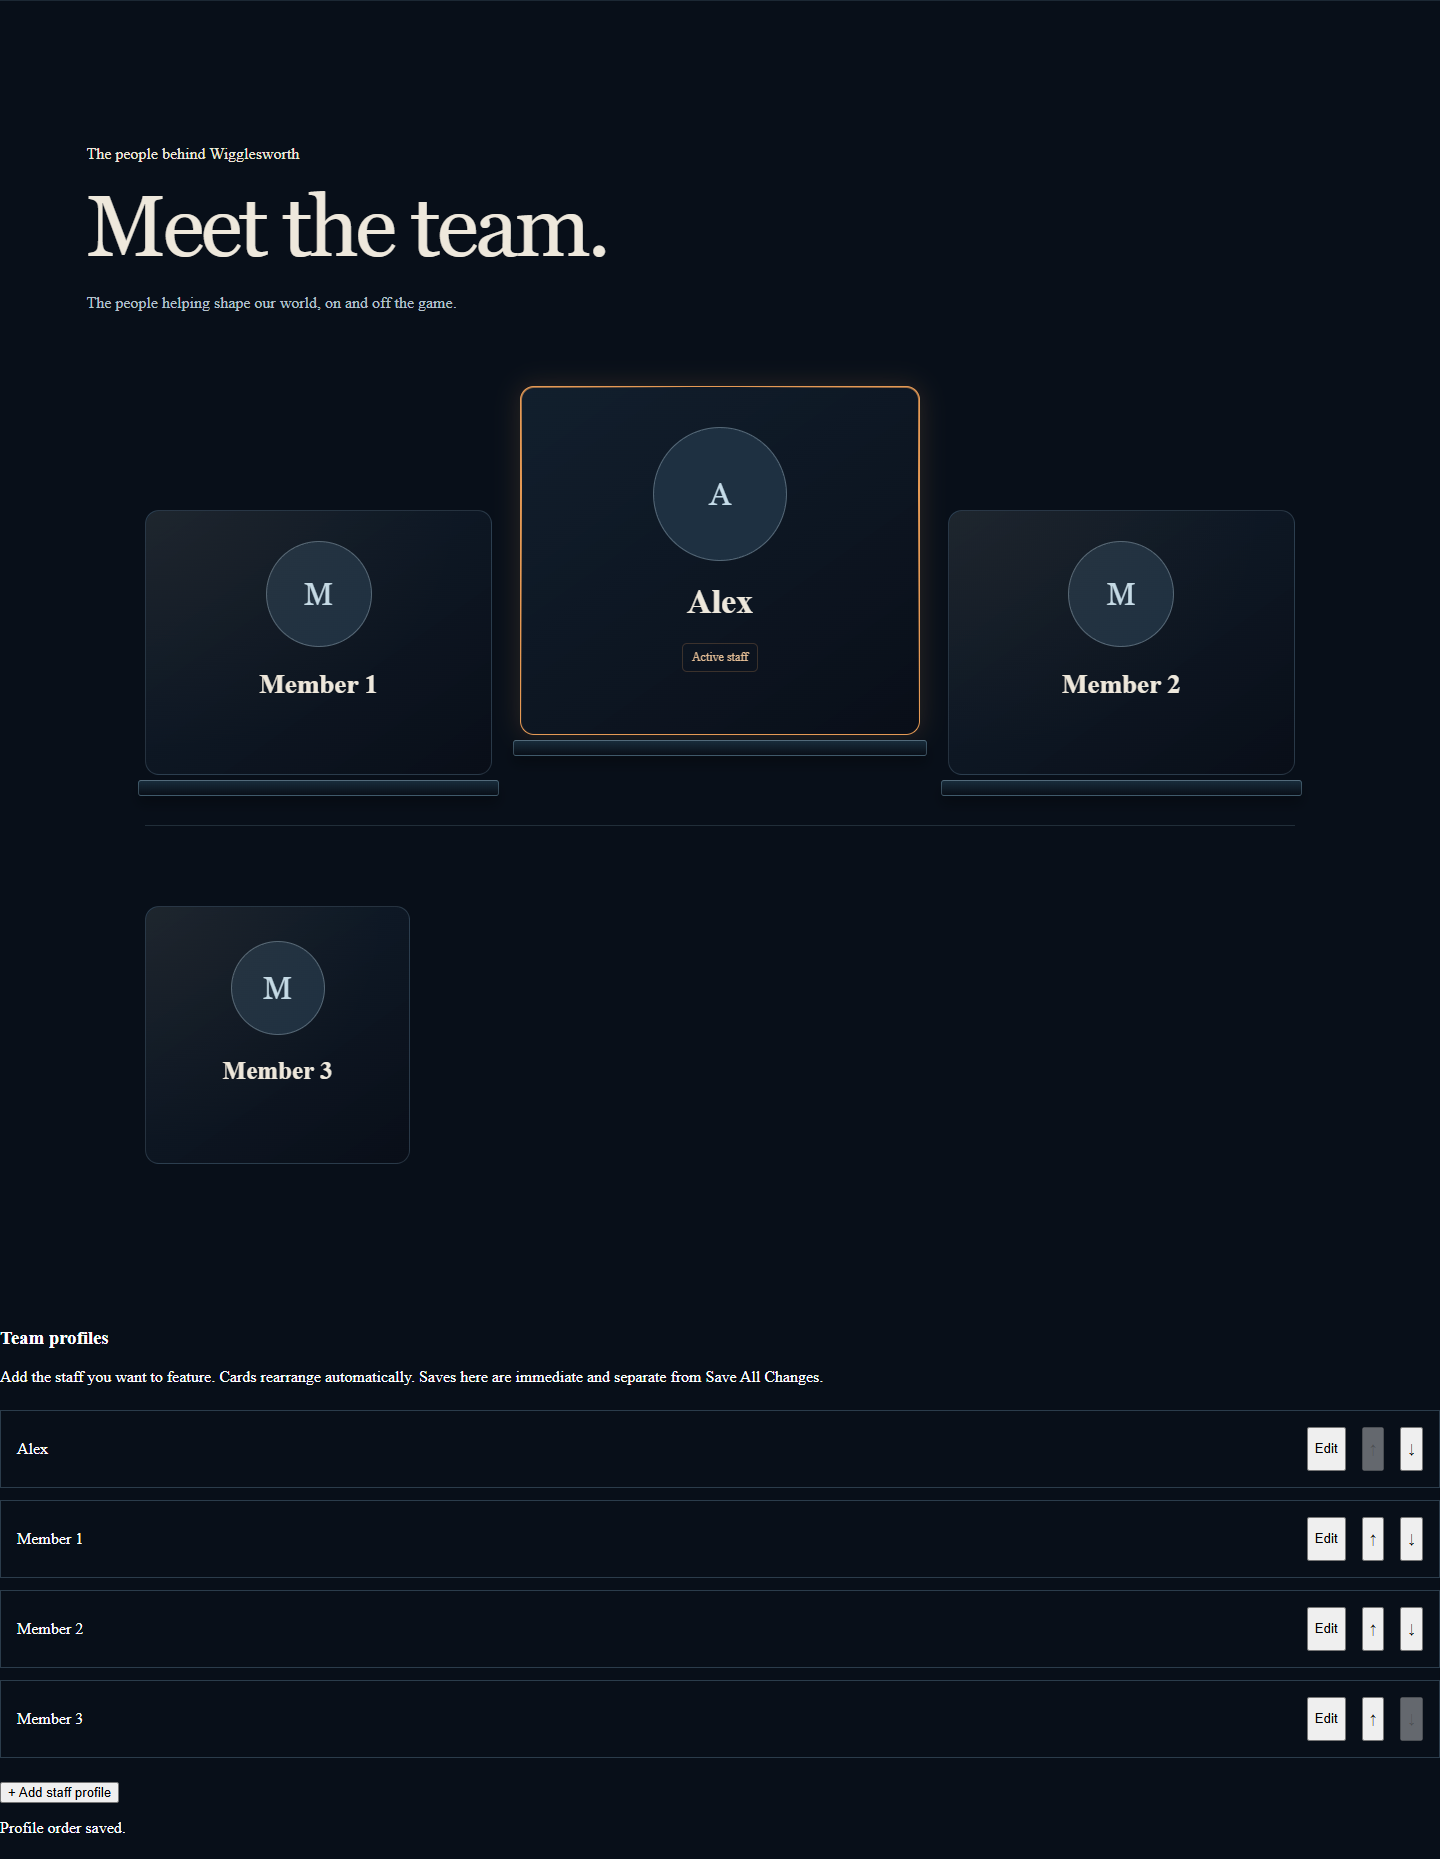
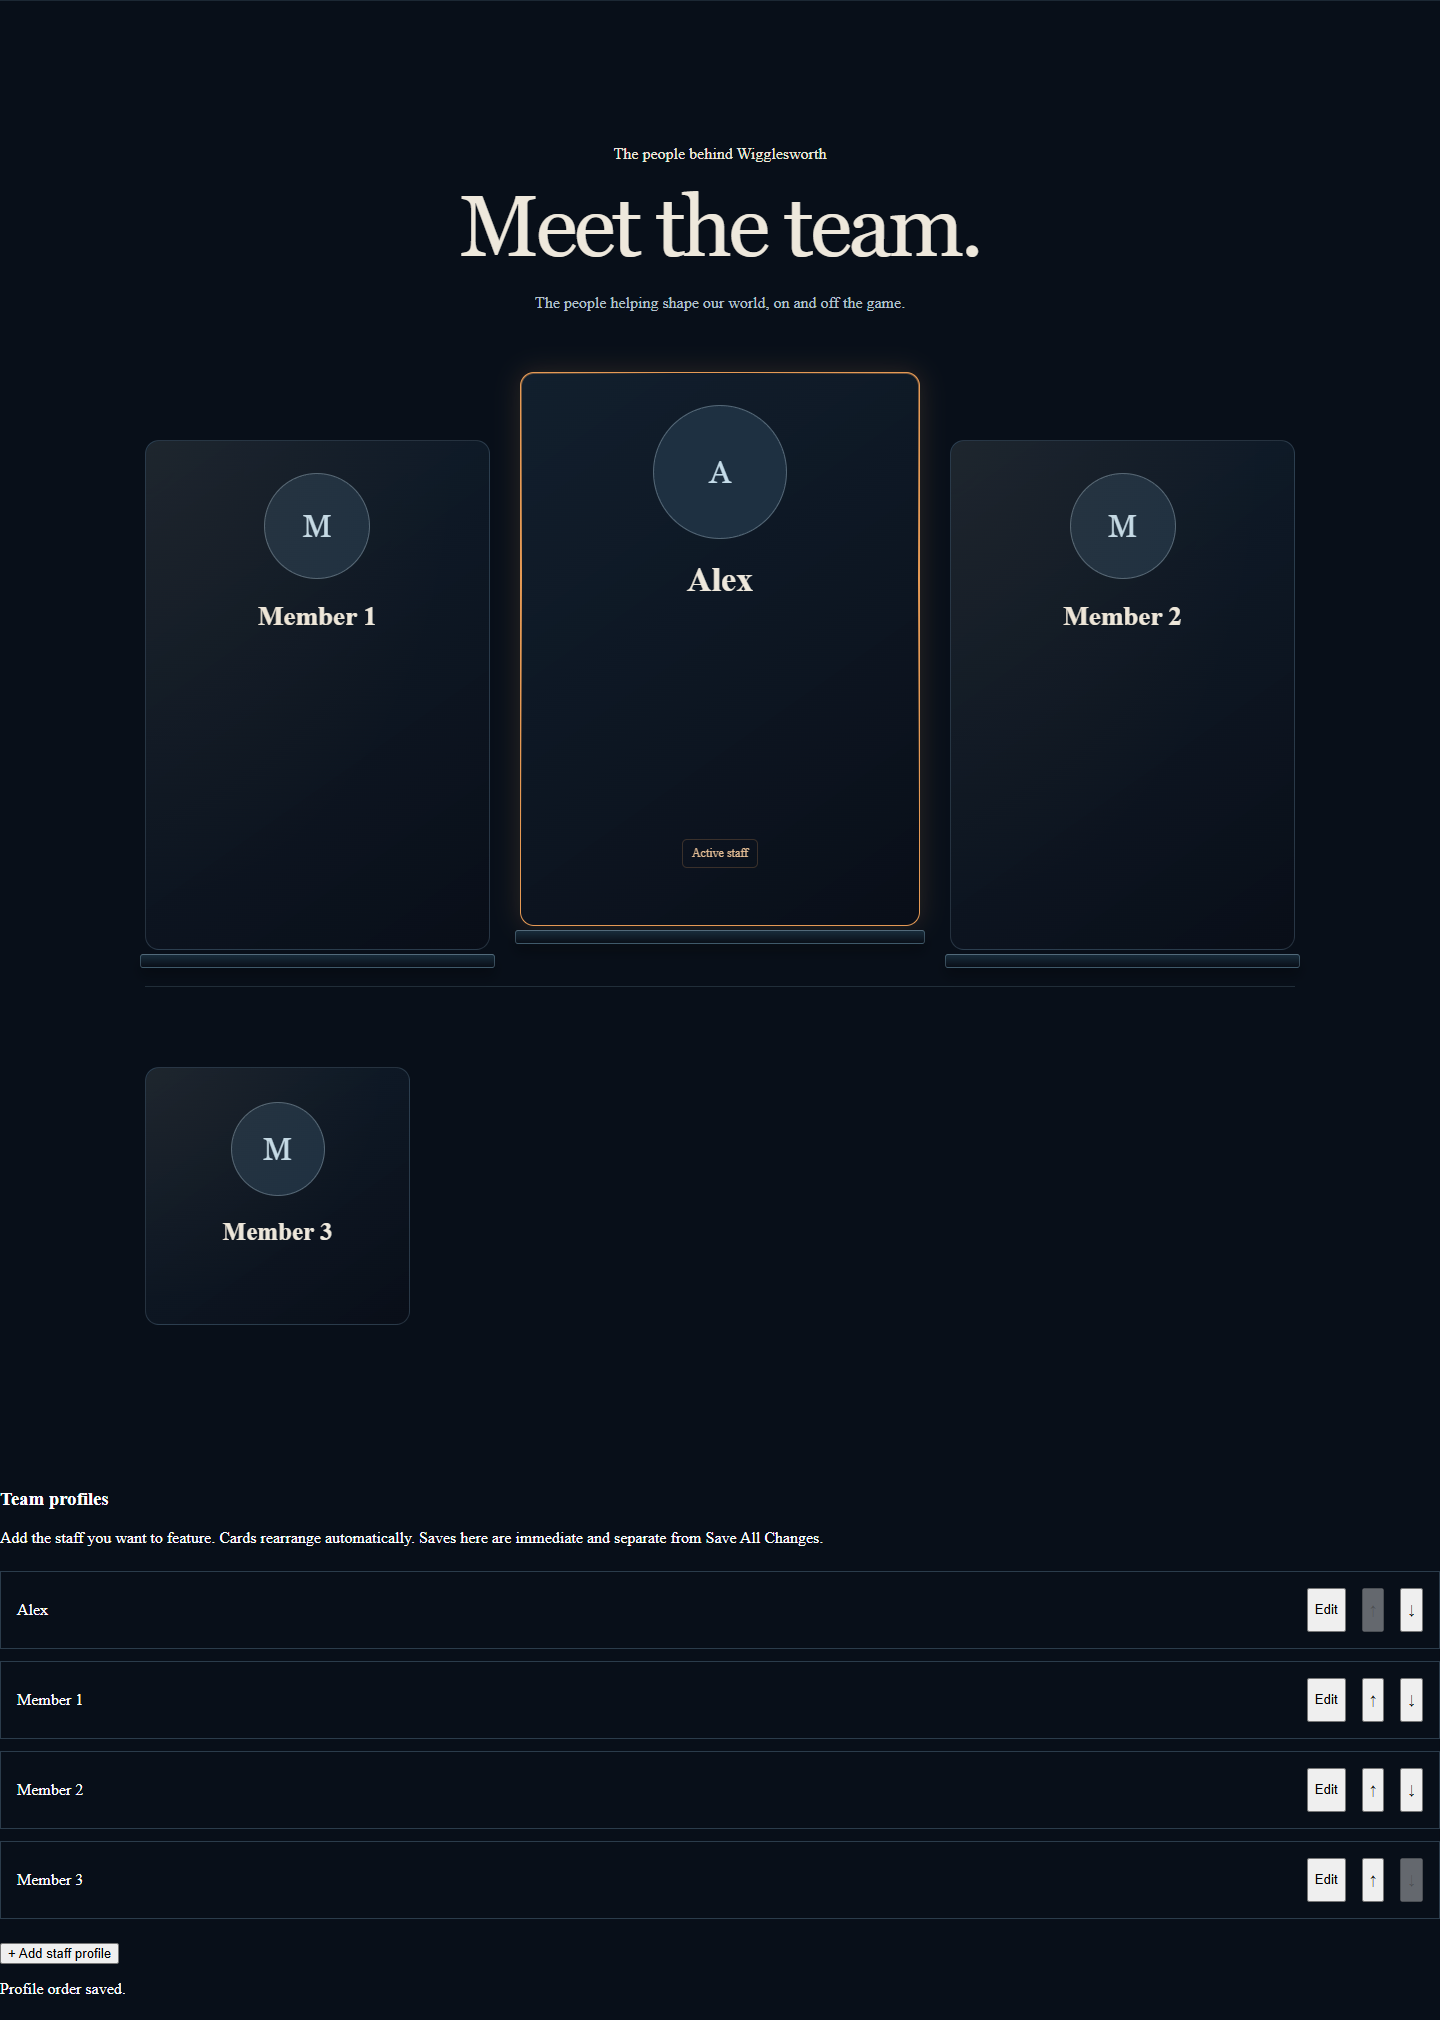
Balance leadership podium heights and center the team section

diff --git a/public/staff-profiles.css b/public/staff-profiles.css
@@ -22,3 +22,11 @@
 
 .team-card{cursor:default}.team-podium{display:grid;grid-template-columns:1fr 1.15fr 1fr;align-items:end;gap:28px;max-width:1150px;margin:70px auto 80px;padding-bottom:30px;border-bottom:1px solid #a1cce329}.team-podium[hidden],.team-grid[hidden]{display:none}.team-podium>.team-card{grid-row:1;grid-column:auto;padding:30px 22px;margin-bottom:20px;overflow:visible}.team-podium>.team-podium-left{grid-column:1}.team-podium>.team-podium-center{grid-column:2;margin-bottom:60px;padding:40px 24px}.team-podium>.team-podium-right{grid-column:3}.team-podium>.team-card:after{content:'';position:absolute;left:-8px;right:-8px;bottom:-22px;height:14px;border:1px solid #a1cce34a;border-top-color:#a1cce37a;border-radius:3px;background:linear-gradient(#182c3b,#090f18);box-shadow:0 8px 12px #0004;pointer-events:none}.team-podium .team-avatar{width:104px;height:104px}.team-podium-center .team-avatar{width:132px;height:132px}.team-podium h3{font-size:27px}.team-podium-center h3{font-size:34px}.team-podium .team-has-banner>.team-avatar{margin-top:-64px}.team-podium .team-podium-center.team-has-banner>.team-avatar{margin-top:-78px}
 @container(max-width:800px){.team-podium{display:flex;flex-direction:column;align-items:stretch;margin-top:35px;gap:30px}.team-podium>.team-card{margin:0;width:auto}.team-podium>.team-podium-center{order:-1;margin:0}.team-podium>.team-card:after{bottom:-14px;height:10px}}
+
+/* Balance the podium independently of biography length and optional banners. */
+.team-section>header{text-align:center;margin-inline:auto}.team-section header p{margin-inline:auto}
+.team-podium{align-items:stretch;grid-template-columns:minmax(0,1fr) minmax(0,1.16fr) minmax(0,1fr);gap:30px;margin-top:54px;padding-bottom:36px}
+.team-podium>.team-card{box-sizing:border-box;display:flex;flex-direction:column;align-items:center;min-height:510px;margin-top:68px;margin-bottom:0;padding:32px 22px}
+.team-podium>.team-podium-center{min-height:554px;margin-top:0;margin-bottom:24px;padding:32px 24px}
+.team-podium .team-banner{flex-shrink:0}.team-podium .team-avatar{flex-shrink:0}.team-podium .team-role{min-height:20px;margin-bottom:16px}.team-podium .team-bio{margin:0 0 20px;line-height:1.65;max-width:38ch}.team-podium .team-badges{width:100%;box-sizing:border-box;margin-top:auto;margin-bottom:22px;padding-top:20px;min-height:56px;align-items:center}.team-podium .team-socials{width:100%;box-sizing:border-box;min-height:70px;align-items:center;padding-top:16px}.team-podium .team-socials a{box-sizing:border-box;min-height:44px}.team-podium>.team-card:after{left:-6px;right:-6px;height:12px;bottom:-19px}
+@container(max-width:800px){.team-podium{gap:32px;max-width:440px;margin-top:34px}.team-podium>.team-card,.team-podium>.team-podium-center{min-height:0;margin:0;padding:28px 22px}.team-podium .team-badges{margin-top:4px}.team-podium .team-socials{min-height:60px}.team-podium>.team-card:after{height:8px;bottom:-13px}}

diff --git a/public/index.html b/public/index.html
@@ -581,7 +581,7 @@ input:focus,textarea:focus,select:focus{border-color:rgba(193,74,84,.78);box-sha
 <link rel="stylesheet" href="/cinema.css?v=20261113b">
 <script src="/cinema.js?v=campaign-20261113" defer></script>
 <link rel="stylesheet" href="/staff-workspace.css?v=20261113">
-<link rel="stylesheet" href="/staff-profiles.css?v=20261114f">
+<link rel="stylesheet" href="/staff-profiles.css?v=20261114g">
 <link rel="stylesheet" href="/atmosphere.css?v=20261113">
 <link rel="stylesheet" href="/campaign.css?v=world-reel-20261114">
 <link rel="stylesheet" href="/ambient.css?v=20261114">
